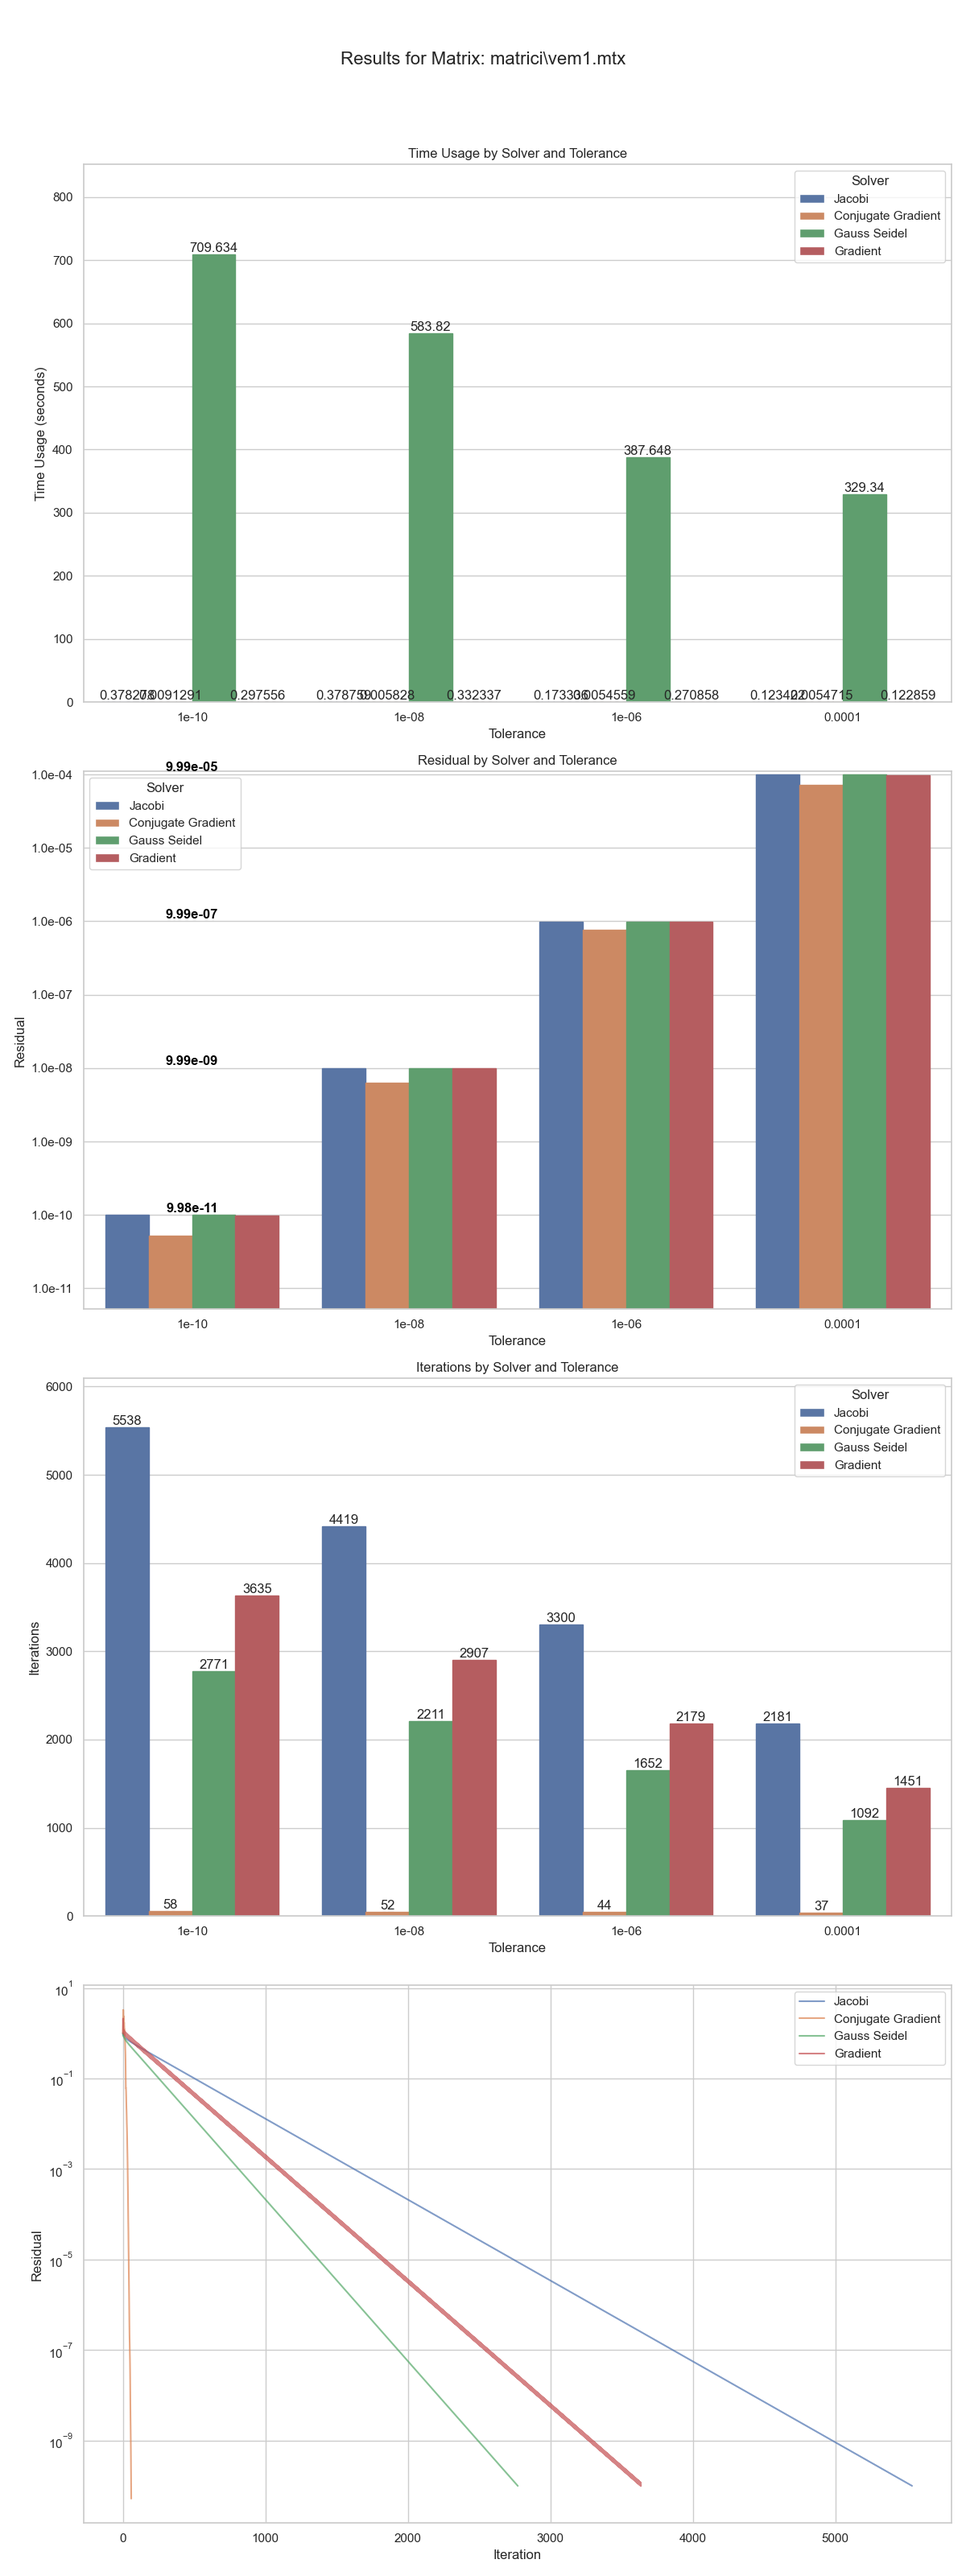
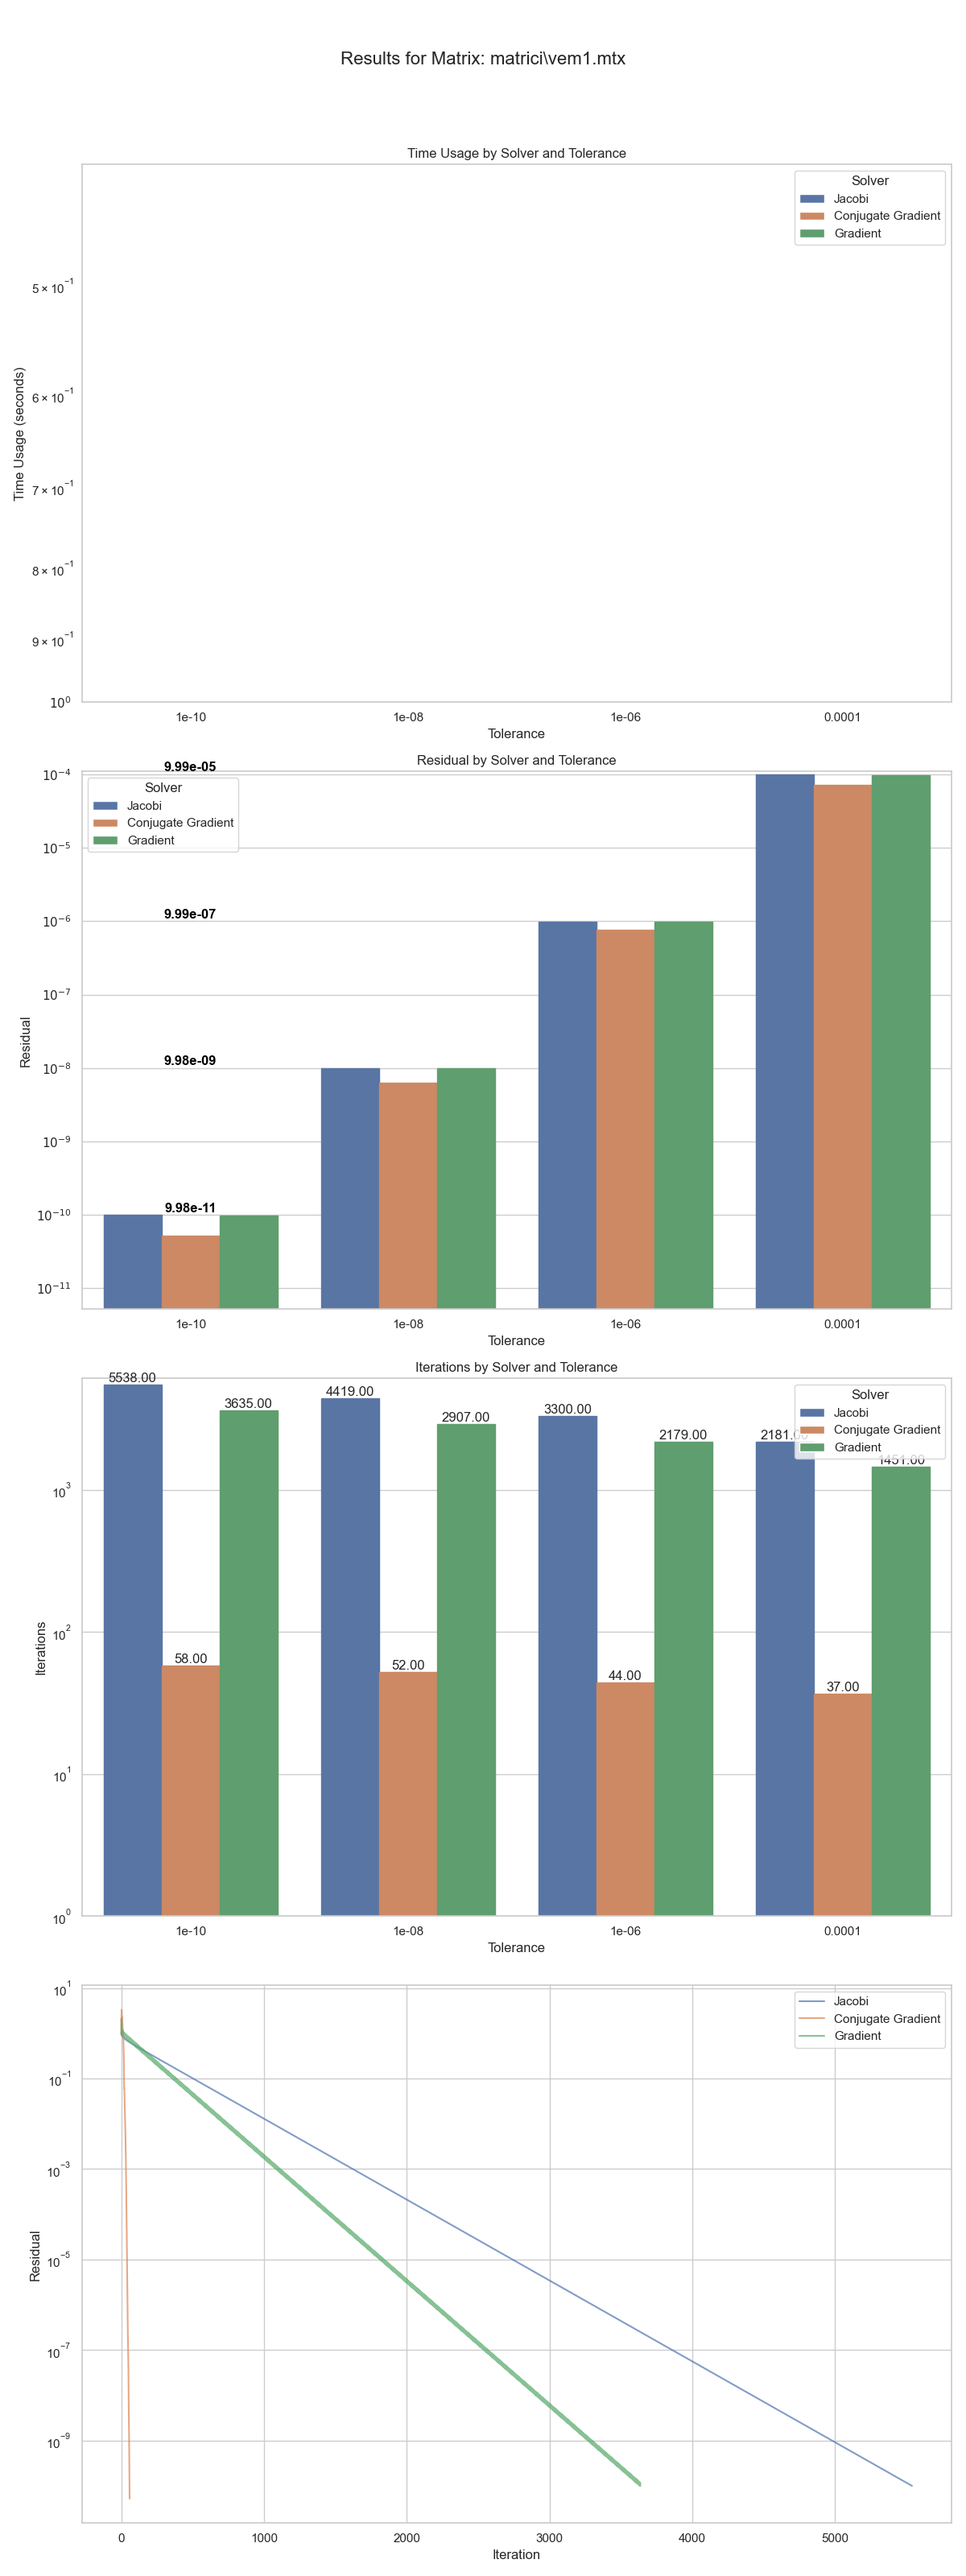
visualizagtion priblem but casted

diff --git a/solver_runner.py b/solver_runner.py
@@ -9,6 +9,7 @@ from JacobiExecuter import JacobiExecuter
 from ConjugateGradientExecuter import ConjugateGradientExecuter
 from GaussSeidelExecuter import GaussSeidelExecuter
 from GradientExecuter import GradientExecuter
+import matplotlib.ticker as mticker  
 
 PATH = 'matrici'
 RESULTS_DIR = 'results'
@@ -37,7 +38,7 @@ def run_matrix_solvers():
             solvers = [
                 ('Jacobi', JacobiExecuter(A, tol, max_iterations)),
                 ('Conjugate Gradient', ConjugateGradientExecuter(A, tol, max_iterations)),
-                ('Gauss Seidel', GaussSeidelExecuter(A, tol, max_iterations)),
+                #('Gauss Seidel', GaussSeidelExecuter(A, tol, max_iterations)),
                 ('Gradient', GradientExecuter(A, tol, max_iterations))
             ]
             
@@ -102,10 +103,16 @@ def plot_results(df):
         axs[0].set_title('Time Usage by Solver and Tolerance')
         axs[0].set_ylabel('Time Usage (seconds)')
         axs[0].set_xlabel('Tolerance')
-        axs[0].set_ylim(0, max_time * 1.2)
+        axs[0].set_yscale('log')  # Set y-axis to logarithmic scale to make all bars visible
+        axs[0].set_ylim(1, max_time * 1.2)  # Set y-axis limits starting from 1 for better visibility
+        
+        # Format y-axis with exponential notation
+        axs[0].yaxis.set_major_formatter(mticker.FuncFormatter(lambda x, _: f'$10^{{{int(np.log10(x))}}}$' if x > 0 else ''))
 
+        # Round time usage to 2 decimal places for labels
         for container in axs[0].containers:
-            axs[0].bar_label(container)
+            labels = [f'{v.get_height():.2f}' for v in container]
+            axs[0].bar_label(container, labels=labels)
 
         for patch in barplot.patches:
             patch.set_edgecolor(patch.get_facecolor())
@@ -119,7 +126,9 @@ def plot_results(df):
         axs[1].set_xlabel('Tolerance')
         axs[1].set_yscale('log')
         axs[1].set_ylim(min_residual * 0.1, max_residual * 1.1)
-        axs[1].yaxis.set_major_formatter(plt.FuncFormatter(lambda x, _: f'{x:.1e}'))
+        
+        # Use scientific notation for the y-axis labels
+        axs[1].yaxis.set_major_formatter(mticker.FuncFormatter(lambda x, _: f'$10^{{{int(np.log10(x))}}}$' if x > 0 else ''))
 
         # Add labels only for the maximum residuals in each tolerance level
         for tolerance, group in matrix_df.groupby('Tolerance'):
@@ -138,10 +147,12 @@ def plot_results(df):
         axs[2].set_title('Iterations by Solver and Tolerance')
         axs[2].set_ylabel('Iterations')
         axs[2].set_xlabel('Tolerance')
-        axs[2].set_ylim(0, max_iterations * 1.1)
+        axs[2].set_yscale('log')  # Set y-axis to logarithmic scale to ensure visibility of all bars
+        axs[2].set_ylim(1, max_iterations * 1.1)
 
         for container in axs[2].containers:
-            axs[2].bar_label(container)
+            labels = [f'{v.get_height():.2f}' for v in container]
+            axs[2].bar_label(container, labels=labels)
 
         for patch in barplot.patches:
             patch.set_edgecolor(patch.get_facecolor())
